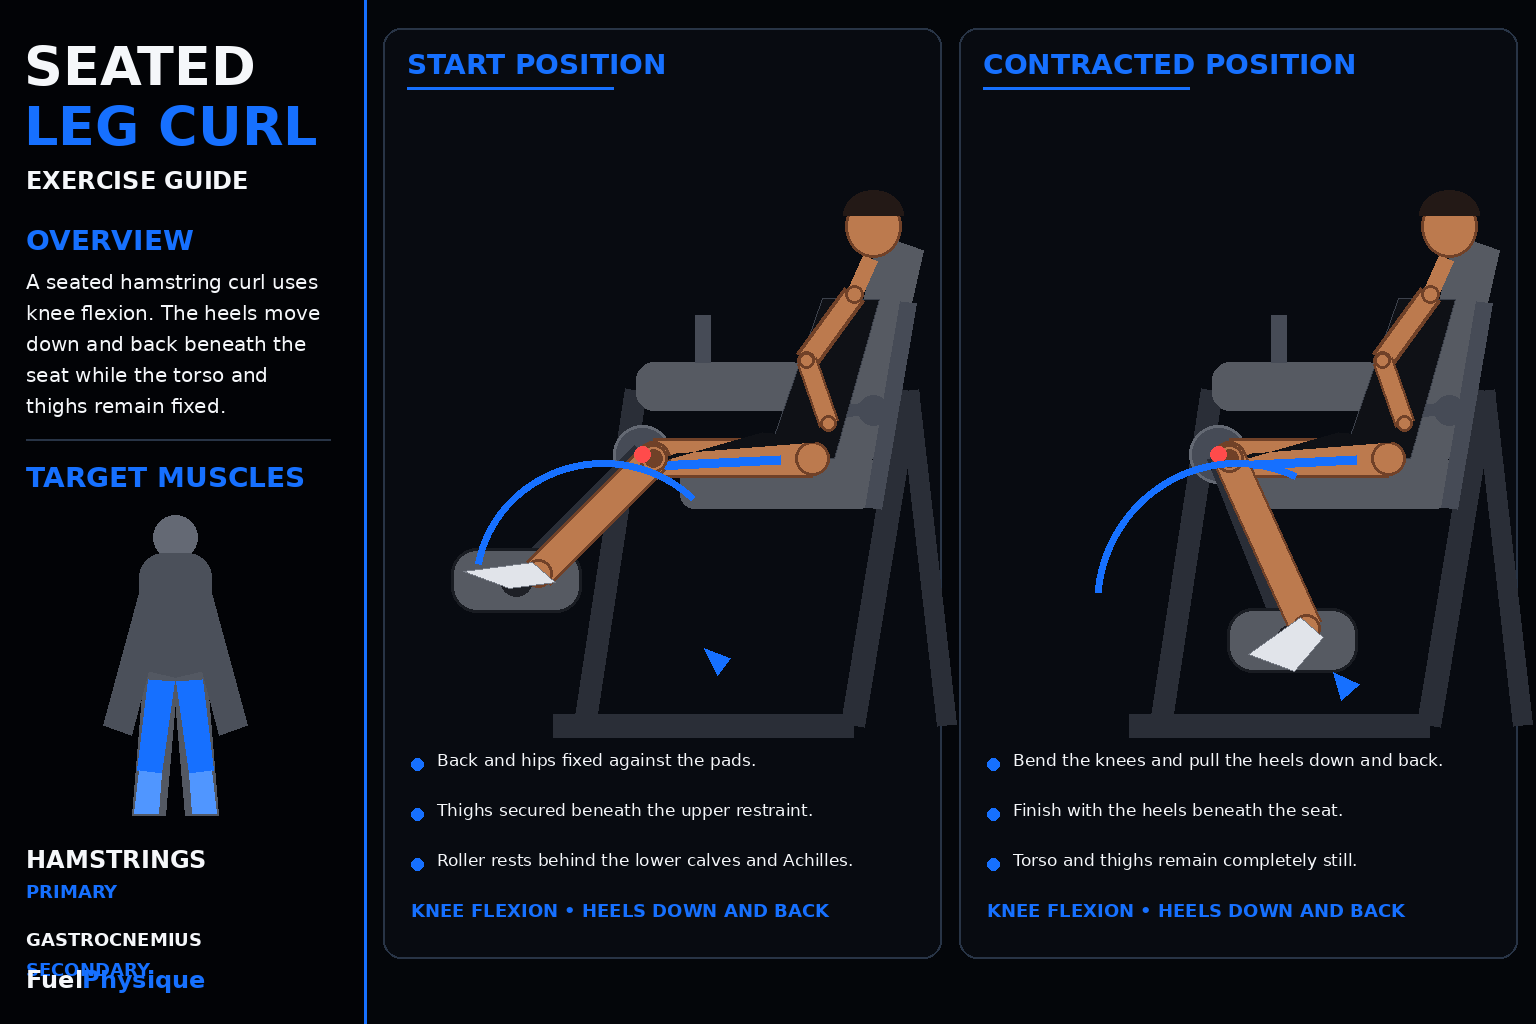
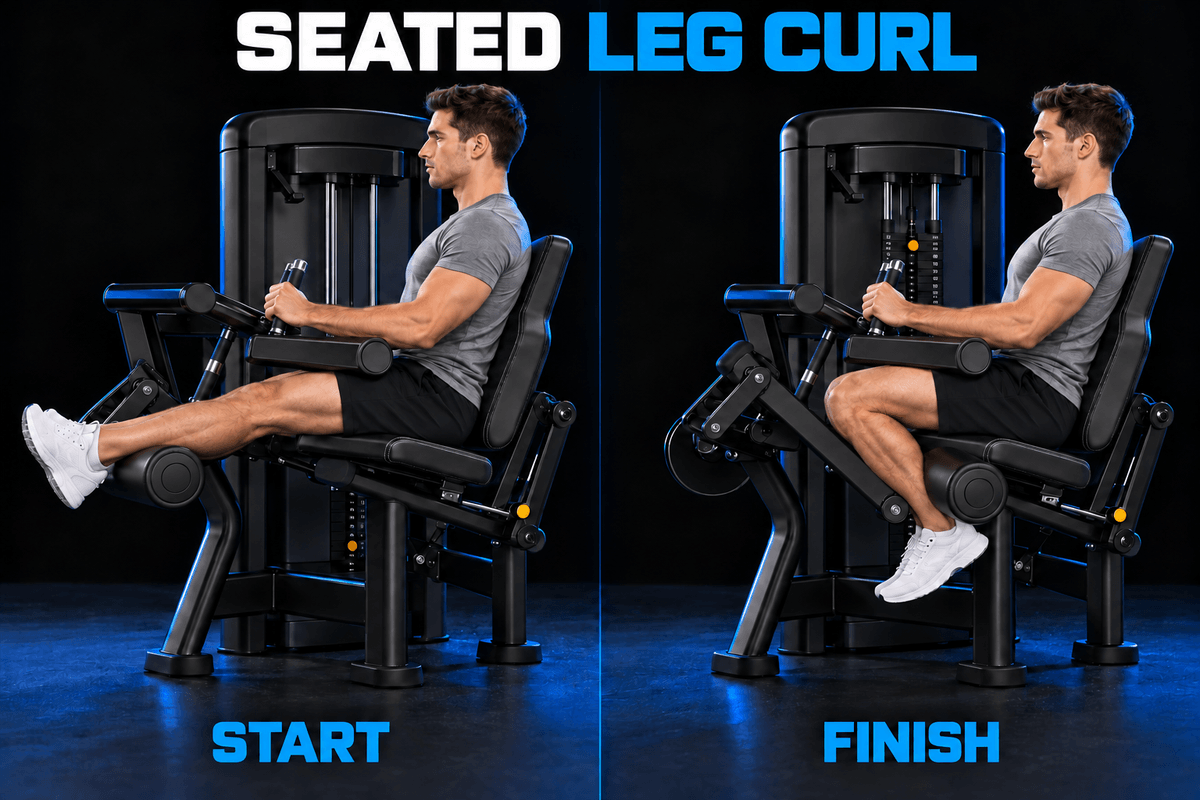
Correct seated leg curl start roller below calves

diff --git a/public/sw.js b/public/sw.js
@@ -2,7 +2,7 @@
 // dropped (the activate handler below deletes any cache whose name !==
 // CACHE_NAME) -- e.g. this bump ships the Workout Tracker exercise-image
 // deadlock fix and must not be served from a stale v1 cache after deploy.
-const CACHE_NAME = 'fuelphysique-plan-tabs-20261015-1';
+const CACHE_NAME = 'fuelphysique-seated-curl-20261015-2';
 
 // Firebase Auth's OAuth helper, proxied same-origin at /__/auth/* (see
 // lib/auth-proxy.js) so the Google consent screen shows the public domain

diff --git a/test/workout-builder-assets.test.js b/test/workout-builder-assets.test.js
@@ -136,7 +136,7 @@ test("exercise image resolver maps newly imported images to existing files", asy
     const url = imageModule.exerciseImageUrl(exerciseName);
     assert.equal(
       url,
-      `/images/exercises/${expectedFile}`,
+      `/images/exercises/${expectedFile}` + (expectedFile === "seated-leg-curl.png" ? "?v=20261015-curl-2" : ""),
       `${exerciseName} should resolve to ${expectedFile}`
     );
     assert.ok(fs.existsSync(publicFile(url)), `Missing resolved demo image: ${url}`);

diff --git a/public/js/exercise-image.js b/public/js/exercise-image.js
@@ -587,7 +587,8 @@ export function exerciseImageResolutionDetails(exercise = {}) {
 export function exerciseImageUrl(exercise = {}) {
   const details = exerciseImageResolutionDetails(exercise);
   if (!details.usedFallback) {
-    return details.imageUrl;
+    // The corrected roller position must bypass the previous week-long image cache.
+    return details.imageUrl + (details.attemptedSlug === "seated-leg-curl" ? "?v=20261015-curl-2" : "");
   }
 
   if (details.attemptedSlug) {

diff --git a/docs/seated-leg-curl-correction-20261015.md b/docs/seated-leg-curl-correction-20261015.md
@@ -1,0 +1,15 @@
+# Seated Leg Curl — start roller correction
+
+Mode: built-in image_gen, precise-object-edit.
+User approved the FINISH panel; the only requested change was placing the START working roller beneath the lower legs.
+The original vector remains recoverable from Git history before this change.
+Final assets: public/images/exercises/seated-leg-curl.png and public/images/exercises/seated-leg-curl.webp.
+Source output: C:/Users/ofek1/.codex/generated_images/01a13089-c405-70b0-9b1b-32b2cf12219b/exec-14755006-b9f2-45a8-8339-2ffa9dbdc5f1.png
+
+## Final prompt
+
+Use case: precise-object-edit.
+Input Image 1: EDIT TARGET, the two-panel SEATED LEG CURL poster.
+User explicitly approves the entire RIGHT "FINISH" panel. DO NOT CHANGE THE RIGHT HALF AT ALL. Preserve its person, machine, roller, pose, lighting, text and every detail. Preserve overall title and canvas.
+Make ONLY this correction in the LEFT "START" panel: move the cylindrical black lower working roller from the FRONT/TOP of the lower shin to directly UNDERNEATH THE LOWER CALVES, just above the heels. This is the roller at approximately 13.7% of image width and54.2% of image height. The extended lower legs must REST ON TOP of that roller, not sit behind it. Roller must support the undersides/back surfaces of BOTH calves from BELOW. The round end of the cylinder should sit LOWER than the calves, with its top surface touching the underside of the calves. Move its center DOWN from current roughly(175,580) to around(185,635), adjusting its connected machine lever minimally. Restore unobstructed skin/shin above it; no black pad on top of the legs. The leg silhouette overlaps and appears IN FRONT OF the roller's upper edge, so it is unambiguously below the legs. Keep the knees nearly straight, shoe and ankle positions unchanged, thighs and hands unchanged.
+DO NOT redesign the machine, change the man, change the FINISH panel, add new parts, arrows or words. Do not change any other detail. Only relocate the lower START roller beneath the legs and reconnect its lever plausibly. Same photorealistic quality and blue/black style.
